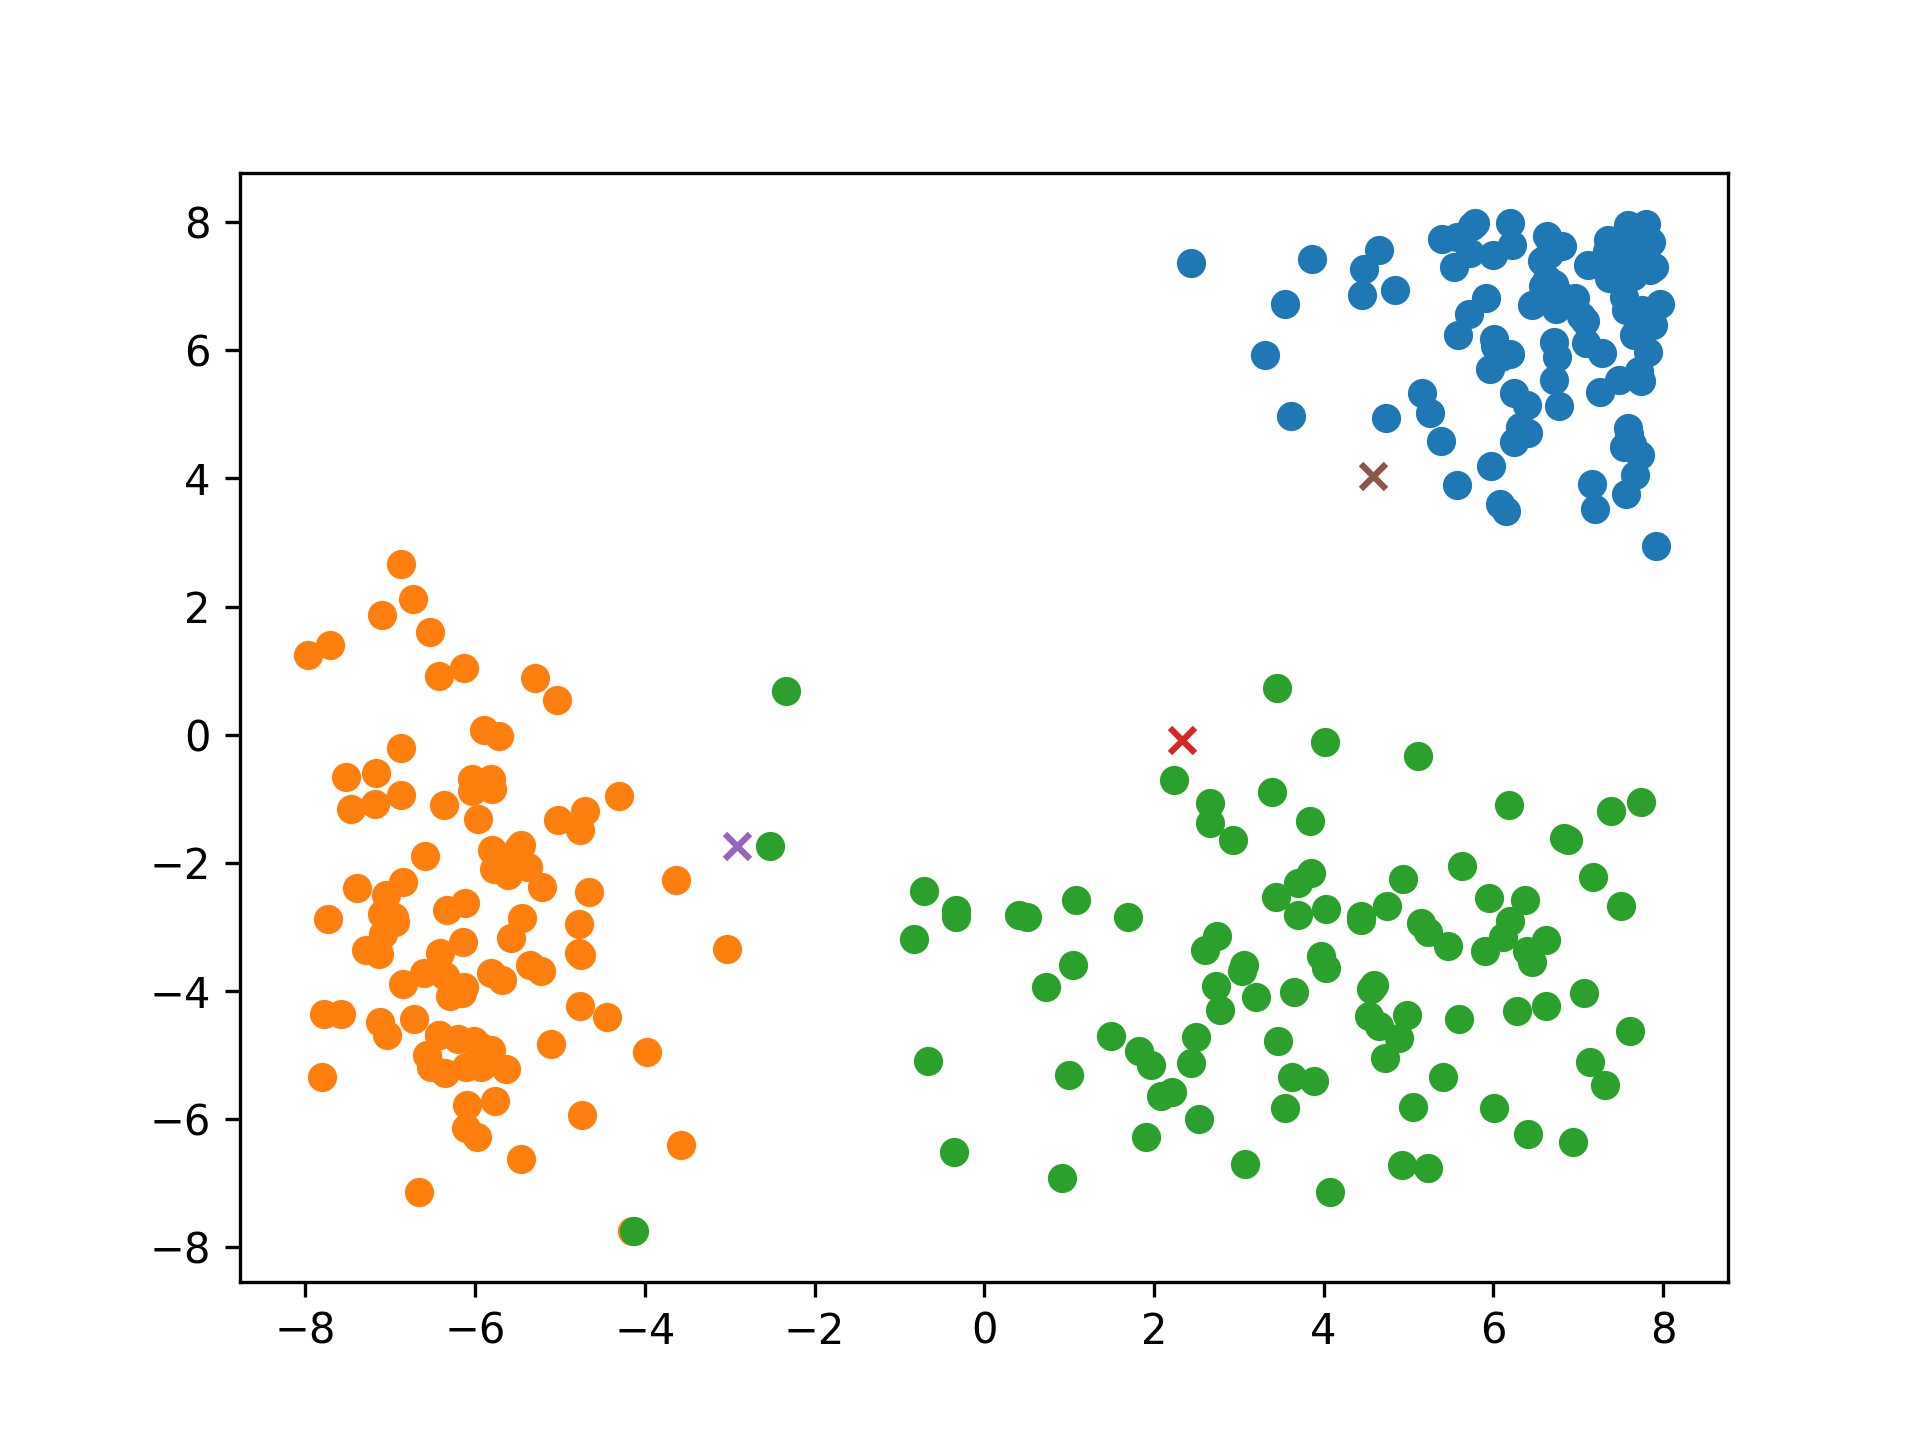
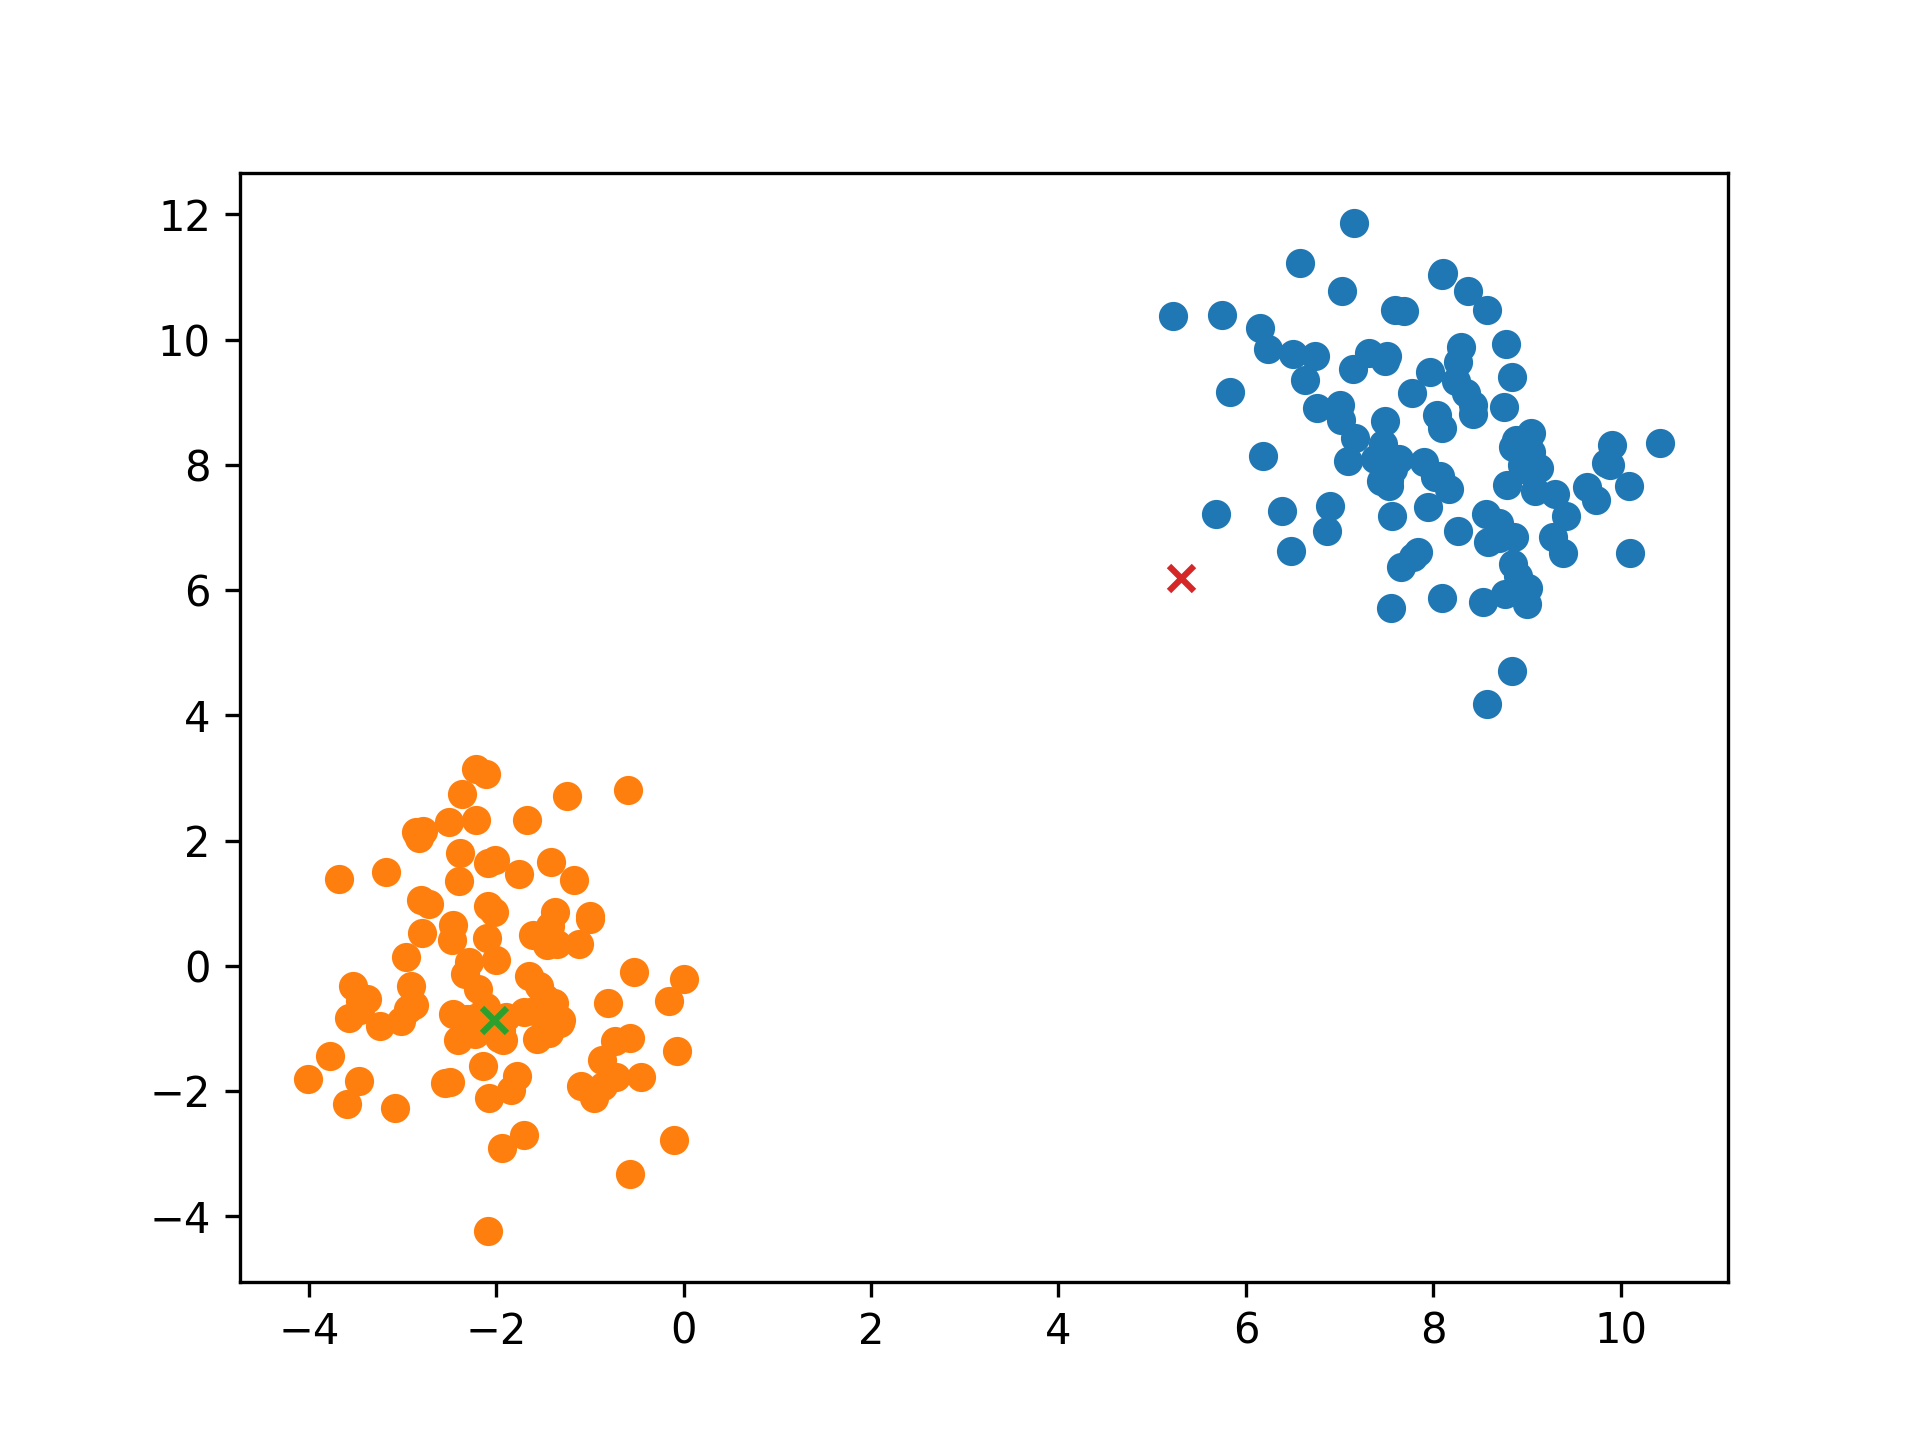
Check in.

diff --git a/exercise.06/main.py b/exercise.06/main.py
@@ -7,33 +7,49 @@ import matplotlib.pyplot as plt
 
 # https://www.youtube.com/watch?v=qMTuMa86NzU
 
-def normal_distribution(x: float, pi: float, mean: float, variance: float) -> float:
-    # pi_part = 1 / (variance * math.sqrt(2 * math.pi))
-    # pi_part = 1
-    pi_part = pi
-    exponent = -0.5 * ((x - mean) / variance) ** 2
+# def normal_distribution(x: float, pi: float, mean: float, variance: float) -> float:
+#     # pi_part = 1 / (variance * math.sqrt(2 * math.pi))
+#     # pi_part = 1
+#     pi_part = pi
+#     exponent = -0.5 * ((x - mean) / variance) ** 2
+#
+#     return pi_part * math.exp(exponent)
+#
+#
+# def generate_distribution(width: float, mean: float, variance: float) -> List[float]:
+#     points = []
+#
+#     while len(points) < 100:
+#         x = random.uniform(-width, width)
+#         prop = normal_distribution(x, 1, mean, variance)
+#
+#         if random.random() < prop:
+#             points.append(x)
+#
+#     return points
 
-    return pi_part * math.exp(exponent)
+# def normal_distribution(x: np.array, mean: np.array, variance: np.array):
+#     # mean = np.array([0, 0])
+#     # sig = np.array([2, 1])
+#
+#     exponent = np.sum(((x - mean) ** 2) / variance)
+#     result = math.exp(-exponent)
+#     return result
 
 
-def generate_distribution(width: float, mean: float, variance: float) -> List[float]:
-    points = []
+def normal_distribution(x: np.array, mean: np.array, cov: np.array):
+    cov_inv = np.linalg.inv(cov)
+    exponent = np.transpose(x - mean) @ cov_inv @ (x - mean)
+    result = math.exp(-exponent)
 
-    while len(points) < 100:
-        x = random.uniform(-width, width)
-        prop = normal_distribution(x, 1, mean, variance)
-
-        if random.random() < prop:
-            points.append(x)
-
-    return points
+    return result
 
 
-def generate_distribution_points(center: (float, float), variance: (float, float)) -> (List[float], List[float]):
-    x_points = generate_distribution(8, center[0], variance[0])
-    y_points = generate_distribution(8, center[1], variance[1])
-
-    return x_points, y_points
+# def generate_distribution_points(center: np.array, variance: np.array) -> (List[float], List[float]):
+#     x_points = normal_distribution(8, center, variance)
+#     y_points = normal_distribution(8, center, variance)
+#
+#     return x_points, y_points
 
 
 def k_mean(k: int, training_data: List[Tuple[float, float, int]]) -> List[Tuple[float, float]]:
@@ -85,129 +101,124 @@ def k_mean(k: int, training_data: List[Tuple[float, float, int]]) -> List[Tuple[
 
 def em(k: int, training_data: List[Tuple[float, float, int]]):
     mean_c = []
-    sig_c = []
-    pi_c = []
+    cov_c = []
 
     for _ in range(k):
         mean_x = random.uniform(-10, 10)
         mean_y = random.uniform(-10, 10)
         mean_c.append((mean_x, mean_y))
 
-        sig_x = random.uniform(0.1, 5)
-        sig_y = random.uniform(0.1, 5)
-        sig_c.append((sig_x, sig_y))
+        cov = np.zeros((2, 2))
+        cov[0, 0] = random.uniform(0.1, 3)
+        cov[1, 1] = random.uniform(0.1, 3)
+        cov_c.append(cov)
 
-        pi_c.append((1, 1))
+    for _ in range(2):
+        probs_ic = []
 
-    probs_ic = []
+        for i in range(len(training_data)):
+            x = np.array(training_data[i])
+            probs_ic.append([])
 
-    for i in range(len(training_data)):
-        x = training_data[i]
-        probs_ic.append([])
+            for c in range(k):
+                prob = normal_distribution(x, mean_c[c], cov_c[c])
+                probs_ic[i].append(prob)
+
+        r_ic = [[] for _ in range(len(training_data))]
+
+        for i in range(len(probs_ic)):
+
+            probs = probs_ic[i]
+
+            sum = 0.0
+
+            for prob in probs:
+                print("prob", prob)
+                sum += prob
+
+            for c in range(k):
+                probability = probs[c] / sum
+                # print("probability", probability)
+                r_ic[i].append(probability)
+
+        mc = [0.0 for _ in range(k)]
+        m = 0.0
 
         for c in range(k):
-            prob_x = normal_distribution(x[0], pi_c[c][0], mean_c[c][0], sig_c[c][0])
-            prob_y = normal_distribution(x[1], pi_c[c][1], mean_c[c][1], sig_c[c][1])
-            probs_ic[i].append((prob_x, prob_y))
 
-    r_ic = [[] for _ in range(len(training_data))]
+            for i in range(len(training_data)):
+                mc[c] += r_ic[i][c]
+                m += r_ic[i][c]
 
-    for i in range(len(probs_ic)):
-
-        probs = probs_ic[i]
-
-        sum_x = 0.0
-        sum_y = 0.0
-
-        for prob in probs:
-            print("prob", prob)
-
-            sum_x += prob[0]
-            sum_y += prob[1]
+        mean_c = [[0.0, 0.0] for _ in range(k)]
 
         for c in range(k):
-            x_prob = probs[c][0] / sum_x
-            y_prob = probs[c][1] / sum_y
-            # r_ic[i].append((x_prob, y_prob))
+            for i in range(len(training_data)):
+                x = np.array(training_data[i])
+                print(f"r_ic[{i}][{c}] = {r_ic[i][c]}")
+                print("x =", x)
+                mean_c[c][0] += np.sum(r_ic[i][c] * x[0])
+                mean_c[c][1] += np.sum(r_ic[i][c] * x[1])
 
-            probability = (x_prob + y_prob) / 2
-            # print("probability", probability)
-            r_ic[i].append(probability)
+            mean_c[c][0] *= (1 / mc[c])
+            mean_c[c][1] *= (1 / mc[c])
 
-    mc = [[0.0, 0.0] for _ in range(k)]
-    m = [0.0, 0.0]
+        print(mean_c)
 
-    for c in range(k):
+        cov_c = [np.zeros((2, 2)) for _ in range(k)]
 
-        for i in range(len(training_data)):
-            mc[c][0] += r_ic[i][c]
-            mc[c][1] += r_ic[i][c]
-            m[0] += r_ic[i][c]
-            m[1] += r_ic[i][c]
+        for c in range(k):
+            for i in range(len(training_data)):
+                np_x = np.array(training_data[i])
+                cov_c[c] += r_ic[i][c] * (np.transpose(np_x) * np_x)
 
-    max_pi_c = []
+            cov_c[c] = (1 / mc[c]) * cov_c[c]
+            cov_c[c][0, 1] = 0
+            cov_c[c][1, 0] = 0
+            print(f"cov_c[{c}] = {cov_c[c]}")
 
-    for c in range(k):
-        max_pi_c.append((mc[c][0] / m[0], mc[c][1] / m[1]))
-
-    print("max_pi_c", max_pi_c)
-
-    max_mean_c = [[0.0, 0.0] for _ in range(k)]
-
-    for c in range(k):
-        for i in range(len(training_data)):
-            x = training_data[i]
-            max_mean_c[c][0] += r_ic[i][c] * x[0]
-            max_mean_c[c][1] += r_ic[i][c] * x[1]
-
-        max_mean_c[c][0] *= (1 / mc[c][0])
-        max_mean_c[c][1] *= (1 / mc[c][1])
-
-    print(max_mean_c)
-
-    max_sig = [[0.0, 0.0] for _ in range(k)]
-
-    for c in range(k):
-        for i in range(len(training_data)):
-            x = training_data[i]
-            max_sig[c][0] += r_ic[i][c] * (x[0] - max_mean_c[c][0]) ** 2
-            max_sig[c][1] += r_ic[i][c] * (x[1] - max_mean_c[c][1]) ** 2
-
-        max_sig[c][0] *= 1 / mc[c][0]
-        max_sig[c][1] *= 1 / mc[c][1]
-
-    return max_mean_c, max_sig
+    return mean_c, cov_c
 
 
 random.seed(19980528)
-x_points_1, y_points_1 = generate_distribution_points((8, 8), (1.9, 1.9))
-x_points_2, y_points_2 = generate_distribution_points((-6, -3), (1.4, 2.4))
-x_points_3, y_points_3 = generate_distribution_points((4, -4), (2.8, 1.8))
+
+cov = [[1, -1],
+       [0, 2]]
+x_points_1, y_points_1 = np.random.multivariate_normal([8, 8], cov, 100).T
+x_points_2, y_points_2 = np.random.multivariate_normal([-2, 0], cov, 100).T
+
+# x_points_1, y_points_1 = generate_distribution_points((8, 8), (1.9, 1.9))
+# x_points_2, y_points_2 = generate_distribution_points((-6, -3), (1.4, 2.4))
+# x_points_3, y_points_3 = generate_distribution_points((4, -4), (2.8, 1.8))
 
 plt.figure(0)
 plt.scatter(x_points_1, y_points_1)
 plt.scatter(x_points_2, y_points_2)
-plt.scatter(x_points_3, y_points_3)
+# plt.scatter(x_points_3, y_points_3)
 # plt.savefig("ml.exercise.06.01.png", dpi=300)
 
 training_data = []
 
 for inx, iny in zip(x_points_1, y_points_1):
-    training_data.append((inx, iny, 0))
+    training_data.append((inx, iny))
 
 for inx, iny in zip(x_points_2, y_points_2):
-    training_data.append((inx, iny, 1))
+    training_data.append((inx, iny))
 
-for inx, iny in zip(x_points_3, y_points_3):
-    training_data.append((inx, iny, 2))
+# for inx, iny in zip(x_points_3, y_points_3):
+#     training_data.append((inx, iny, 2))
 
 # centroids = k_mean(3, training_data)
-centroids, sig = em(3, training_data)
+centroids, covs = em(2, training_data)
 
-for centroid in centroids:
+for inx in range(len(centroids)):
+    centroid = centroids[inx]
+    cov = covs[inx]
+    print("centroid", centroid)
+    print("cov", cov)
     plt.scatter(centroid[0], centroid[1], marker="x")
 
 plt.savefig("ml.exercise.06.01.png", dpi=300)
 
-print("centroids", centroids)
-print("sig", sig)
+# print("centroids", centroids)
+# print("sig", sig)

diff --git a/exercise.06/show_gauss.py b/exercise.06/show_gauss.py
@@ -30,18 +30,32 @@ def normal_distribution(x: np.array, pi: float, mean: float, variance: float) ->
 
 
 def normal_distribution_2(x: np.array):
-    # mean = np.array([0, 0])
-    # sig = np.array([[0.5, 1.5], [0.1, 1.6]])
-    mean = np.array([2.3338281687488074, -0.08093649607381477])
-    sig = np.array([[29.313368698570045, 23.845319805965087], [23.845319805965087, 29.313368698570045]])
+    mean = np.array([-1.9627000753720651, -0.6402175481784353])
+    # sig = np.array([2, 1])
+    # cov = np.array([[1.0, -1.0],
+    #                 [0.0, 2.0]])
+    cov = np.array([[4.56755595, 0.0],
+                    [0.0, 1.77421897]])
 
-    sig_inv = np.linalg.inv(sig)
-    sig_det = np.linalg.det(sig)
+    cov_inv = np.linalg.inv(cov)
+    # cov_det = np.linalg.det(cov)
 
-    exponent = -0.5 * np.transpose(x - mean) * sig * (x - mean)
+    exponent = np.transpose(x - mean) @ cov_inv @ (x - mean)
+    # exponent = (((x[0] - mean[0]) ** 2) / sig[0]) + (((x[1] - mean[1]) ** 2) / sig[1])
 
-    # return np.exp(exponent) / (math.sqrt((2 * math.pi) ** 2) * sig_det)
-    return np.exp(exponent)
+    # xx = x[0] - mean[0]
+    # yy = x[1] - mean[1]
+    #
+    # exponent = (cov[0, 0] * (xx ** 2)) + (2 * cov[0, 1] * xx ** yy) + (cov[1, 1] * (yy ** 2))
+    # exponent = np.sum(((x - mean) ** 2) / sig)
+
+    print("x", x)
+    print("exponent", exponent)
+
+    result = math.exp(-exponent)
+    print("result", result)
+
+    return result
 
 
 def f(x, y):
@@ -52,7 +66,7 @@ def f(x, y):
 
     for inx in range(len(x)):
         for iny in range(len(x)):
-            data[inx][iny] = np.mean(normal_distribution_2(np.array([x[inx][iny], y[inx][iny]])))
+            data[inx][iny] = normal_distribution_2(np.array([x[inx][iny], y[inx][iny]]))
 
     # print("data", data)
 
@@ -67,16 +81,7 @@ Z = f(X, Y)
 
 # Create a surface plot and projected filled contour plot under it.
 plt.figure(0)
-# ax = fig.gca(projection='3d')
-# ax.plot_surface(X, Y, Z, rstride=3, cstride=3, linewidth=1, antialiased=True,cmap=cm.viridis)
-
-plt.contourf(X, Y, Z, 20)
-
-# Adjust the limits, ticks and view angle
-# ax.set_zlim(-0.15, 0.2)
-# ax.set_zticks(np.linspace(0, 0.2, 5))
-# ax.view_init(27, -21)
-
+plt.contourf(X, Y, Z, 100)
 plt.show()
 
 print("normal_distribution_2([0, 0])")
